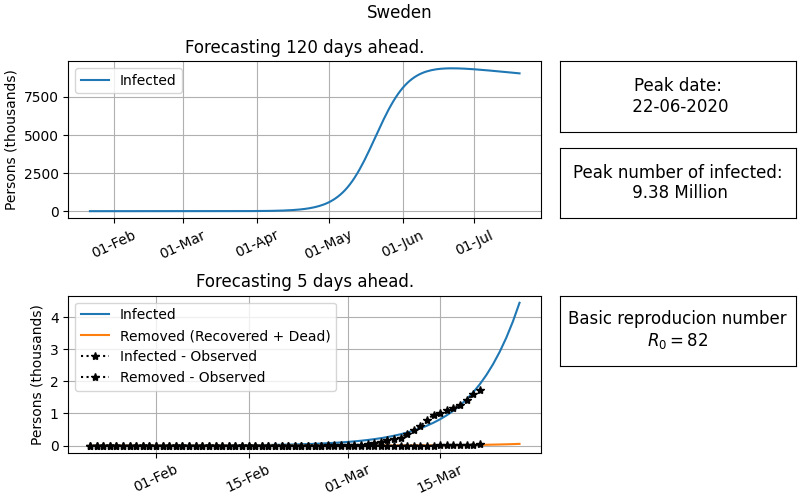
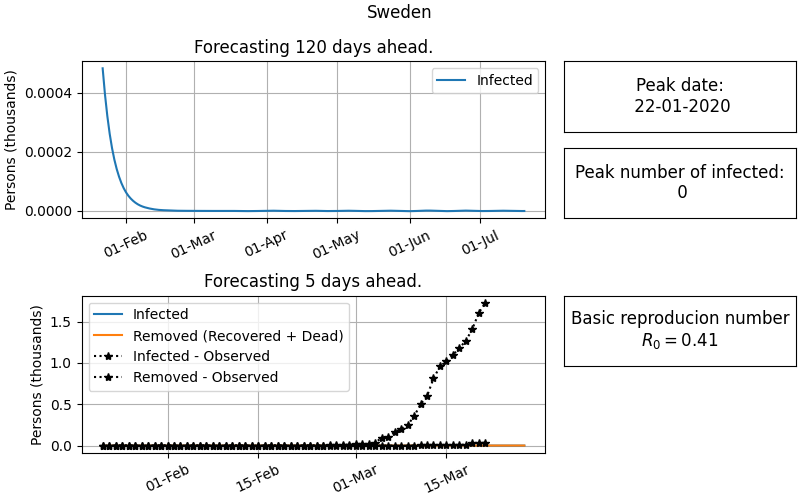
Made new forecasts with fixed infectious period of 2.9 days (hence fixed gamma) and freely varying beta, I0 and R0.

diff --git a/forecast/forecast_country.py b/forecast/forecast_country.py
@@ -46,6 +46,7 @@ def forecast_countries(df: pd.DataFrame,
 def forecast(df, country, extract_forecast_info: callable, n_days_predict: int,
              start_params=None, seed=42) -> (pd.DataFrame, ForecastInfo):
     SCALING = 1000
+    GAMMA = 1/2.9
     MODEL_NAME = 'SIR'
 
     logger.info(f"Forecasting {country}")
@@ -98,17 +99,17 @@ def forecast(df, country, extract_forecast_info: callable, n_days_predict: int,
         return np.log(params)
 
     if start_params:
-        beta, gamma, I0 = start_params
+        beta, R0, I0 = start_params.beta, start_params.R0, start_params.I0
     else:
         random.seed(seed)
         beta = random.uniform(0.01, 5.0)
-        gamma = random.uniform(0.01, 5.0)
         I0 = infected_obs[0] if infected_obs[0] > 0 else random.uniform(a=1.0 / SCALING, b=50.0 / SCALING)
+        R0 = removed_obs[0] if removed_obs[0] > 0 else random.uniform(a=1.0 / SCALING, b=50.0 / SCALING)
 
-    beta, gamma, I0 = repam([beta, gamma, I0])
+    fit_params = repam([beta, R0, I0])
 
+    gamma = GAMMA
     S0 = susceptible_obs[0]
-    R0 = removed_obs[0]
 
     dates_pred = np.arange(dates_obs[-1] + np.timedelta64(1, 'D'), dates_obs[-1] + np.timedelta64(n_days_predict + 1, 'D'), np.timedelta64(1, 'D'))
     dates_eval_pred = np.append(dates_obs, dates_pred)
@@ -119,14 +120,14 @@ def forecast(df, country, extract_forecast_info: callable, n_days_predict: int,
     t_span = (t_eval_pred.min(), t_eval_pred.max())
 
     res = minimize(
-        minimize_wrapper, np.array([beta, gamma, I0]),
+        minimize_wrapper, np.array(fit_params),
         method='Nelder-Mead',
         options={'maxiter': 2500, 'maxfev': 5000}
     )
     logger.info(res)
-    beta, gamma, I0 = inv_repam(res.x)
+    beta, R0, I0 = inv_repam(res.x)
     logger.info(f'R0 = {beta / gamma:.2f}')
-    logger.info(f'beta = {beta:.3g}, gamma = {gamma:.3g},S0 = {S0:.3g}, I0 = {I0:.3g}, R0 = {R0:.3g}')
+    logger.info(f'beta = {beta:.3g}, gamma = {gamma:.3g}, S0 = {S0:.3g}, I0 = {I0:.3g}, R0 = {R0:.3g}')
 
     S_t, I_t, R_t = eval_sir_model(beta, gamma, I0, S0, R0, N, t_span, t_eval_pred)
 
@@ -148,6 +149,6 @@ def forecast(df, country, extract_forecast_info: callable, n_days_predict: int,
     forecast_info = extract_forecast_info(country=country,
                                           model_name=MODEL_NAME,
                                           df=df,
-                                          params=Params(beta, gamma, I0)
+                                          params=Params(beta=beta, gamma=gamma, I0=I0, R0=R0, S0=S0)
                                           )
     return df_forecast, forecast_info

diff --git a/get_data/download_cssegi_sand_data.py b/get_data/download_cssegi_sand_data.py
@@ -1,7 +1,10 @@
 import requests
 import os
 import os.path as op
+import time
+import logging
 
+logger = logging.getLogger(__name__)
 
 def main():
     confirmed_url = "https://raw.githubusercontent.com/CSSEGISandData/COVID-19/master/csse_covid_19_data/csse_covid_19_time_series/time_series_19-covid-Confirmed.csv"
@@ -12,11 +15,13 @@ def main():
     os.makedirs(FOLDER, exist_ok=True)
 
     for url in [confirmed_url, deaths_url, recovered_url]:
+        logger.info(f'Downloading data: {op.basename(url)} ...')
         resp = requests.get(url)
         filename = op.basename(url)
         csv_file_path = op.join(FOLDER, filename)
         with open(csv_file_path, 'wb') as csv_file:
             csv_file.write(resp.content)
+        time.sleep(2)
 
 if __name__ == '__main__':
     main()

diff --git a/admin/make_new_forecast.py b/admin/make_new_forecast.py
@@ -16,11 +16,8 @@ def main():
 
     df_all = pd.read_pickle(DATA_FILE)
 
-    logging.basicConfig(level=logging.INFO)
-
     start_params = {
-        'Denmark': Params(beta=1.4863183028145124, gamma=0.9927890258623339, I0=1e-7),
-        # 'China': StartParams(beta=0.35, gamma=0.04, I0=200)
+        'Denmark': Params(beta=1.4863183028145124, gamma=None, R0=0.1, I0=1e-7, S0=None),
     }
 
     df_forecasts, forecast_info_collection = forecast_countries(

diff --git a/admin/main.py b/admin/main.py
@@ -3,6 +3,9 @@ from data_prep.cssegi_prep import main as data_prep
 from admin.make_new_forecast import main as calc_forecast
 from admin.make_forecast_plots import main as plot_forecast
 from admin.make_readme import main as make_readme
+import logging
+
+logging.basicConfig(level=logging.INFO)
 
 get_data()
 data_prep()

diff --git a/forecast/params.py b/forecast/params.py
@@ -1,2 +1,2 @@
 from collections import namedtuple
-Params = namedtuple('Params', ['beta', 'gamma', 'I0'])
+Params = namedtuple('Params', ['beta', 'gamma', 'S0', 'I0', 'R0'])
